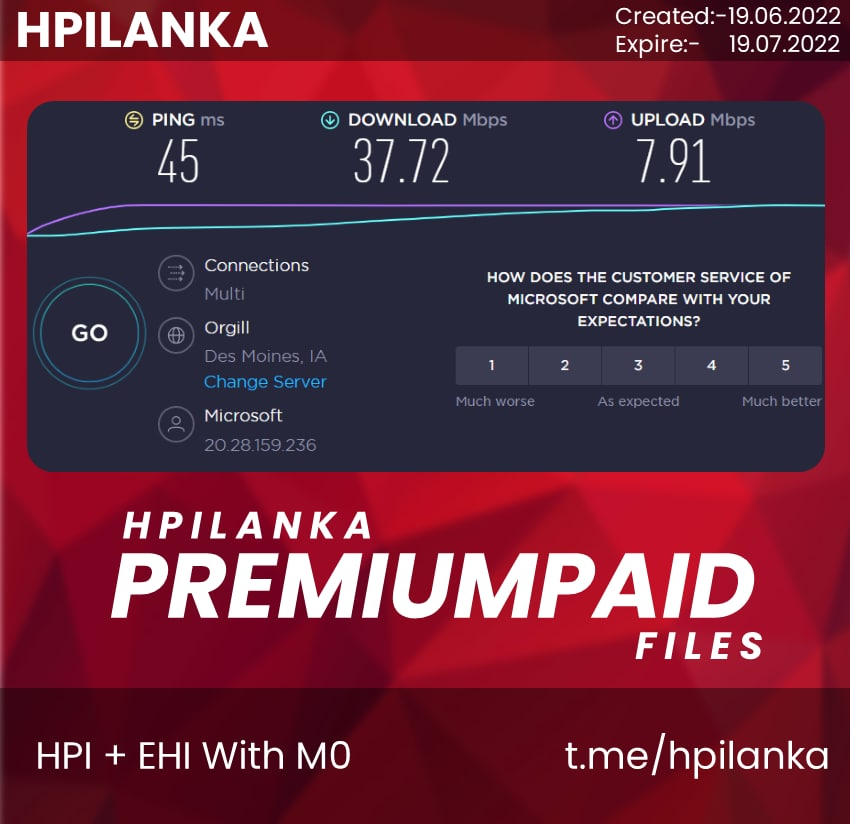
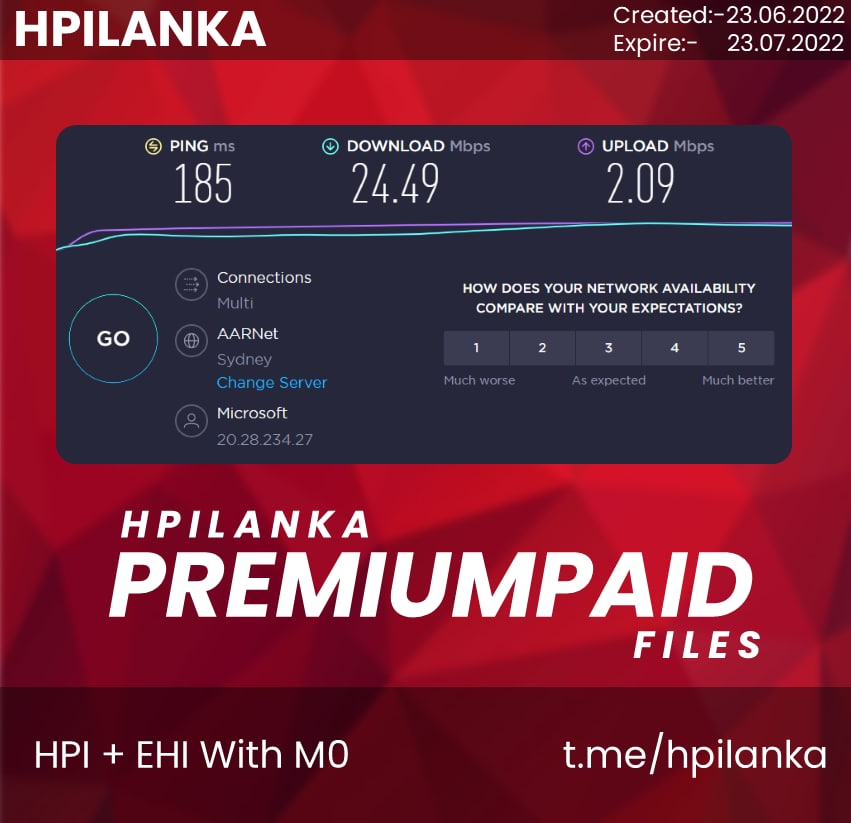
update_220623_2

diff --git a/hpifiles.html b/hpifiles.html
@@ -63,17 +63,17 @@
                 <p class="card-text">
                     <b>Categorie :-</b> Http prxoy injector HPI
                     <br>
-                    <b>Created date :-</b> 19.06.2022
+                    <b>Created date :-</b> 23.06.2022
                     <br>
-                    <b>Expire date :-</b> 19.07.2022
+                    <b>Expire date :-</b> 23.07.2022
                     <br>
-                    <b>Sever location :-</b> USA 🇺🇸
+                    <b>Sever location :-</b> AU
                     <br>
                     <b>VPS :-</b> Azure
                 </p>
                   <div class="btn-group" role="group" aria-label="Basic mixed styles example">
-                <a href="https://t.me/hpilanka/548" target="blank" class="btn btn-dark btn-sm"><i class="fa-brands fa-telegram"></i> View on telegram</a>
-                <a href="Files/🎲 Zoom 🎲.hpi" class="btn btn-success btn-sm"><i class="fa-solid fa-download"></i> Download</a>
+                <a href="https://t.me/hpilanka/608" target="blank" class="btn btn-dark btn-sm"><i class="fa-brands fa-telegram"></i> View on telegram</a>
+                <a href="Files/💼 Zoom 💼.hpi" class="btn btn-success btn-sm"><i class="fa-solid fa-download"></i> Download</a>
                 </div>
               </div>
             </div>
@@ -86,17 +86,17 @@
                     <p class="card-text">
                       <b>Categorie :-</b> Http prxoy injector HPI
                       <br>
-                      <b>Created date :-</b> 19.06.2022
+                      <b>Created date :-</b> 23.06.2022
                       <br>
-                      <b>Expire date :-</b> 19.07.2022
+                      <b>Expire date :-</b> 23.07.2022
                       <br>
-                      <b>Sever location :-</b> USA 🇺🇸
+                      <b>Sever location :-</b> AU
                       <br>
                       <b>VPS :-</b> Azure
                     </p>
                       <div class="btn-group" role="group" aria-label="Basic mixed styles example">
-                    <a href="https://t.me/hpilanka/546" target="blank" class="btn btn-dark btn-sm"><i class="fa-brands fa-telegram"></i> View on telegram</a>
-                    <a href="Files/🎲 WhatsApp 🎲.hpi" class="btn btn-success btn-sm"><i class="fa-solid fa-download"></i> Download</a>
+                    <a href="https://t.me/hpilanka/606" target="blank" class="btn btn-dark btn-sm"><i class="fa-brands fa-telegram"></i> View on telegram</a>
+                    <a href="Files/💼 WhatsApp 💼.hpi" class="btn btn-success btn-sm"><i class="fa-solid fa-download"></i> Download</a>
                     </div>
                   </div>
                 </div>
@@ -109,17 +109,17 @@
                     <p class="card-text">
                       <b>Categorie :-</b> Http prxoy injector HPI
                       <br>
-                      <b>Created date :-</b> 19.06.2022
+                      <b>Created date :-</b> 23.06.2022
                       <br>
-                      <b>Expire date :-</b> 19.07.2022
+                      <b>Expire date :-</b> 23.07.2022
                       <br>
-                      <b>Sever location :-</b> USA 🇺🇸
+                      <b>Sever location :-</b> AU
                       <br>
                       <b>VPS :-</b> Azure
                     </p>
                       <div class="btn-group" role="group" data-bs-target="#afterdownload" aria-label="Basic mixed styles example">
-                    <a href="https://t.me/hpilanka/547" target="blank" class="btn btn-dark btn-sm"><i class="fa-brands fa-telegram"></i> View on telegram</a>
-                    <a href="Files/🎲 YouTube 🎲.hpi" class="btn btn-success btn-sm"><i class="fa-solid fa-download"></i> Download</a>
+                    <a href="https://t.me/hpilanka/607" target="blank" class="btn btn-dark btn-sm"><i class="fa-brands fa-telegram"></i> View on telegram</a>
+                    <a href="Files/💼 YouTube 💼.hpi" class="btn btn-success btn-sm"><i class="fa-solid fa-download"></i> Download</a>
                     </div>
                   </div>
                 </div>
@@ -132,17 +132,17 @@
                     <p class="card-text">
                       <b>Categorie :-</b> Http prxoy injector HPI
                       <br>
-                      <b>Created date :-</b> 19.06.2022
+                      <b>Created date :-</b> 23.06.2022
                       <br>
-                      <b>Expire date :-</b> 19.07.2022
+                      <b>Expire date :-</b> 23.07.2022
                       <br>
-                      <b>Sever location :-</b> USA 🇺🇸
+                      <b>Sever location :-</b> AU
                       <br>
                       <b>VPS :-</b> Azure
                     </p>
                       <div class="btn-group" role="group" aria-label="Basic mixed styles example">
-                    <a href="https://t.me/hpilanka/549" target="blank" class="btn btn-dark btn-sm"><i class="fa-brands fa-telegram"></i> View on telegram</a>
-                    <a href="Files/🎲 Facebook 🎲.hpi" class="btn btn-success btn-sm">Download</a>
+                    <a href="https://t.me/hpilanka/609" target="blank" class="btn btn-dark btn-sm"><i class="fa-brands fa-telegram"></i> View on telegram</a>
+                    <a href="Files/💼 Facebook 💼.hpi" class="btn btn-success btn-sm">Download</a>
                     </div>
                   </div>
                 </div>
@@ -155,17 +155,17 @@
                     <p class="card-text">
                       <b>Categorie :-</b> Http prxoy injector HPI
                       <br>
-                      <b>Created date :-</b> 19.06.2022
+                      <b>Created date :-</b> 23.06.2022
                       <br>
-                      <b>Expire date :-</b> 19.07.2022
+                      <b>Expire date :-</b> 23.07.2022
                       <br>
-                      <b>Sever location :-</b> USA 🇺🇸
+                      <b>Sever location :-</b> AU
                       <br>
                       <b>VPS :-</b> Azure
                     </p>
                       <div class="btn-group" role="group" aria-label="Basic mixed styles example">
-                    <a href="https://t.me/hpilanka/549" target="blank" class="btn btn-dark btn-sm"><i class="fa-brands fa-telegram"></i> View on telegram</a>
-                    <a href="Files/🎲 Twitter 🎲.hpi" class="btn btn-success btn-sm"><i class="fa-solid fa-download"></i> Download</a>
+                    <a href="https://t.me/hpilanka/605" target="blank" class="btn btn-dark btn-sm"><i class="fa-brands fa-telegram"></i> View on telegram</a>
+                    <a href="Files/💼 Twitter 💼.hpi" class="btn btn-success btn-sm"><i class="fa-solid fa-download"></i> Download</a>
                     </div>
                   </div>
                 </div>
@@ -178,17 +178,17 @@
                     <p class="card-text">
                       <b>Categorie :-</b> Http prxoy injector HPI
                       <br>
-                      <b>Created date :-</b> 19.06.2022
+                      <b>Created date :-</b> 23.06.2022
                       <br>
-                      <b>Expire date :-</b> 19.07.2022
+                      <b>Expire date :-</b> 23.07.2022
                       <br>
-                      <b>Sever location :-</b> USA 🇺🇸
+                      <b>Sever location :-</b> AU
                       <br>
                       <b>VPS :-</b> Azure
                     </p>
                       <div class="btn-group" role="group" aria-label="Basic mixed styles example">
-                    <a href="https://t.me/hpilanka/544" target="blank" class="btn btn-dark btn-sm"><i class="fa-brands fa-telegram"></i> View on telegram</a>
-                    <a href="Files/🎲 Mobitel 0 🎲.hpi" class="btn btn-success btn-sm"><i class="fa-solid fa-download"></i> Download</a>
+                    <a href="https://t.me/hpilanka/610" target="blank" class="btn btn-dark btn-sm"><i class="fa-brands fa-telegram"></i> View on telegram</a>
+                    <a href="Files/💼 Mobitel 0 💼.hpi" class="btn btn-success btn-sm"><i class="fa-solid fa-download"></i> Download</a>
                     </div>
                   </div>
                 </div>
